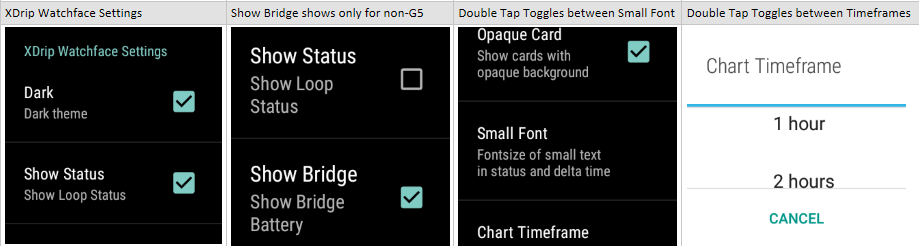
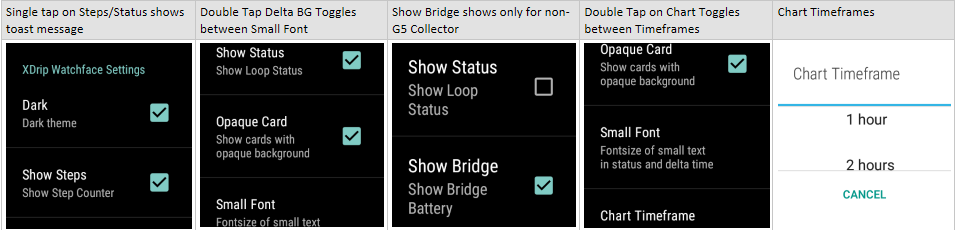
Add step counter support to wear and update WatchGuide

diff --git a/wear/src/main/java/com/eveningoutpost/dexdrip/ListenerService.java b/wear/src/main/java/com/eveningoutpost/dexdrip/ListenerService.java
@@ -704,7 +704,7 @@ public class ListenerService extends WearableListenerService implements GoogleAp
     }
 
     private void setupStepSensor() {
-        if (mPrefs.getBoolean("use_wear_health", true)) {
+        if (mPrefs.getBoolean("use_wear_health", false) || mPrefs.getBoolean("showSteps", false)) {
             Log.d(TAG, "Start Step Counter Sensor");
             startService(new Intent(this, SensorService.class));
         }
@@ -746,7 +746,7 @@ public class ListenerService extends WearableListenerService implements GoogleAp
                 Log.d(TAG, "OnSharedPreferenceChangeListener sendPrefSettings for key=" + key);
                 sendPrefSettings();
             }
-            else if (key.compareTo("use_wear_health") == 0) {
+            else if (key.compareTo("use_wear_health") == 0 || key.compareTo("showSteps") == 0) {
                 setupStepSensor();
             }
             else {//if(key.compareTo("dex_txid") == 0 || key.compareTo(DexCollectionType.DEX_COLLECTION_METHOD) == 0){
@@ -1737,7 +1737,7 @@ public class ListenerService extends WearableListenerService implements GoogleAp
         if (googleApiClient != null) {
             Wearable.MessageApi.removeListener(googleApiClient, this);
         }
-        if (mPrefs.getBoolean("use_wear_health", true)) {
+        if (mPrefs.getBoolean("use_wear_health", true) || mPrefs.getBoolean("showSteps", true)) {
             Log.d(TAG, "Start Step Counter Sensor");
             stopService(new Intent(this, SensorService.class));
         }

diff --git a/Documentation/WatchGuide.md b/Documentation/WatchGuide.md
@@ -167,6 +167,7 @@ The following image shows xDrip+ app Battery Alert under **Extra Alerts (xDrip+)
 
 ####XDrip Watchface Settings
 The following new preferences are supported:
+  - Show Steps - Show Step Counter on all XDrip watchfaces.  Steps reset to 0 at midnight. To enable, you must switch **Use Pebble Health Data** on under xDrip+ **Smart Watch Features**. When enabled, wear steps will be synced to xDrip+.
   - Show Status - Show Loop Status on the XDrip and XDrip(Large) watchfaces.  This will display the HAPP status message containing Basal%, IOB, COB.
   - Opaque Card - Show notifications cards with opaque background.  This will allow cards to be read more easily in ambient mode.
   - Small Font - Fontsize of small text in status and delta time fields on the XDrip and XDrip(Large) watchfaces.
@@ -179,6 +180,10 @@ The following images show watchface preferences.
 The following images show an example of an alert displayed with Opaque Card enabled and disabled in Ambient Mode and Interactive Mode.
 
 <img align="middle" src="./images/prefs-watch-opaque.png" title="XDrip Watchface Opaque Card">
+
+The following images show required xDrip+ preferences and examples of Watch Steps synced with xDrip+.
+
+<img align="middle" src="./images/prefs-phone-sync-steps.png" title="XDrip Phone and Watchface Step Counter">
 
 ####Watchface Tap Feature
 Watchface tap feature is now implemented for the following preferences:
